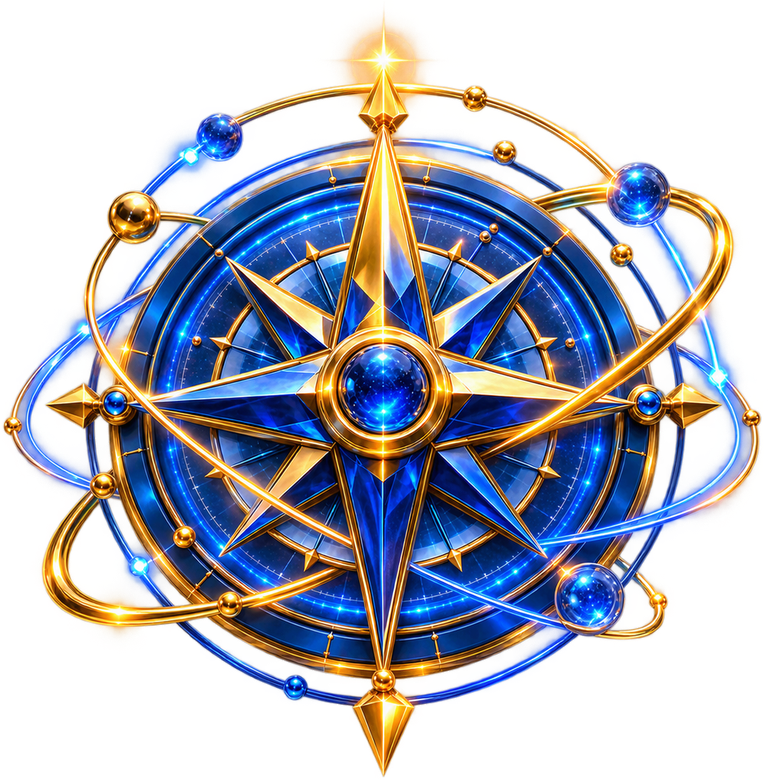
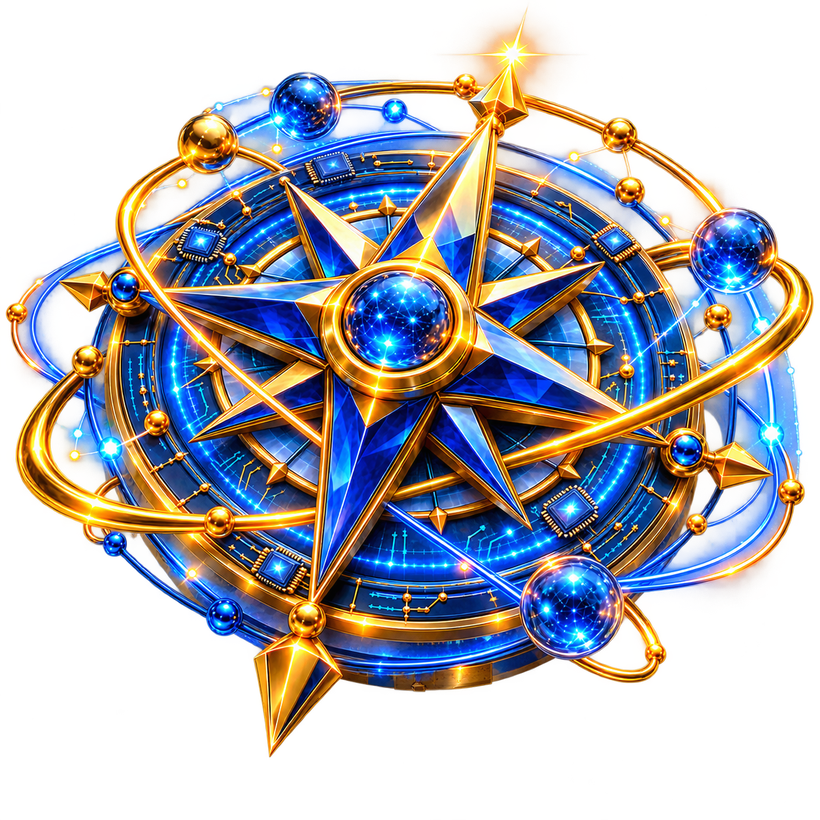
Fase grafica: sfondo hero piu profondo (aurora, orizzonte, riflesso) + nuova bussola
- Sfondo hero migliorato via CSS: nebulosa/aurora soffusa, linea d'orizzonte
  piu netta, riflesso sull'acqua sotto la bussola, piu profondita.
- Sostituita la bussola con la nuova versione (piu ricca: circuiti, orbite,
  sfere), gia trasparente, ritagliata e ottimizzata.

diff --git a/style.css b/style.css
@@ -225,12 +225,15 @@ tr:last-child td{border-bottom:none}
    ============================================================ */
 .hhero{position:relative;min-height:100vh;min-height:100dvh;display:flex;flex-direction:column;color:#fff;overflow:hidden;
   background:
-    radial-gradient(80% 64% at 72% 42%, rgba(46,125,246,.42), transparent 60%),
-    radial-gradient(48% 38% at 72% 42%, rgba(224,169,59,.15), transparent 58%),
-    radial-gradient(62% 55% at 13% 8%, rgba(41,86,166,.40), transparent 60%),
-    radial-gradient(150% 120% at 50% -10%, transparent 56%, rgba(4,11,26,.55)),
-    radial-gradient(120% 95% at 50% 120%, rgba(6,14,30,.70), transparent 60%),
-    linear-gradient(180deg,#0e2249 0%,#173561 40%,#245a82 58%,#164062 64%,#0a1f39 100%);}
+    radial-gradient(84% 66% at 72% 40%, rgba(46,125,246,.44), transparent 60%),
+    radial-gradient(46% 36% at 72% 40%, rgba(224,169,59,.16), transparent 56%),
+    radial-gradient(120% 46% at 28% 20%, rgba(66,140,220,.20), transparent 62%),
+    radial-gradient(90% 34% at 82% 16%, rgba(86,170,196,.14), transparent 60%),
+    radial-gradient(60% 52% at 12% 8%, rgba(41,86,166,.36), transparent 60%),
+    linear-gradient(180deg, transparent 62.4%, rgba(165,208,250,.45) 63.1%, transparent 64%),
+    radial-gradient(150% 120% at 50% -12%, transparent 54%, rgba(4,11,26,.58)),
+    radial-gradient(130% 100% at 50% 122%, rgba(5,13,28,.72), transparent 60%),
+    linear-gradient(180deg,#0e2249 0%,#173561 38%,#255d86 58%,#1a4c72 63%,#0c2846 70%,#08182e 100%);}
 .hhero-stars{position:absolute;inset:0 0 42% 0;pointer-events:none;opacity:.92;
   -webkit-mask-image:linear-gradient(180deg,#000 55%,transparent);mask-image:linear-gradient(180deg,#000 55%,transparent);
   background-image:
@@ -247,8 +250,11 @@ tr:last-child td{border-bottom:none}
     radial-gradient(2.5px 2.5px at 20% 12%,rgba(255,255,255,.95),transparent),
     radial-gradient(2px 2px at 58% 20%,rgba(200,222,255,.9),transparent),
     radial-gradient(2px 2px at 88% 15%,rgba(255,255,255,.85),transparent);}
-.hhero::after{content:"";position:absolute;left:0;right:0;bottom:0;height:40%;pointer-events:none;
-  background:radial-gradient(60% 100% at 72% 0%, rgba(130,178,240,.20), transparent 70%);}
+.hhero::after{content:"";position:absolute;left:0;right:0;bottom:0;height:38%;pointer-events:none;
+  background:
+    radial-gradient(40% 120% at 72% -6%, rgba(150,197,247,.30), transparent 66%),
+    linear-gradient(180deg, rgba(120,175,235,.12), transparent 62%);
+  -webkit-mask-image:linear-gradient(180deg,#000,transparent);mask-image:linear-gradient(180deg,#000,transparent)}
 
 .hhero-nav{position:absolute;top:0;left:0;right:0;z-index:20;padding:18px 24px}
 .hnav{max-width:var(--wrap);margin:0 auto;display:flex;align-items:center;gap:18px;
